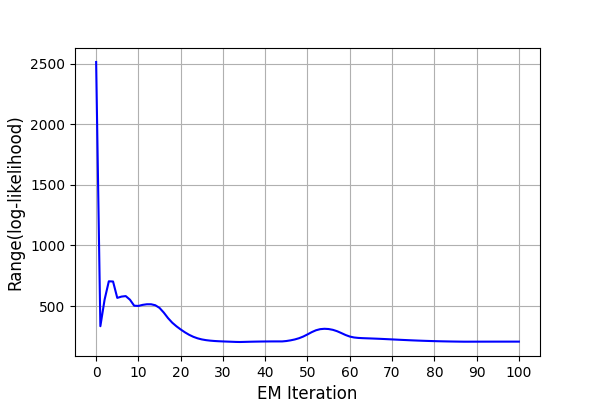
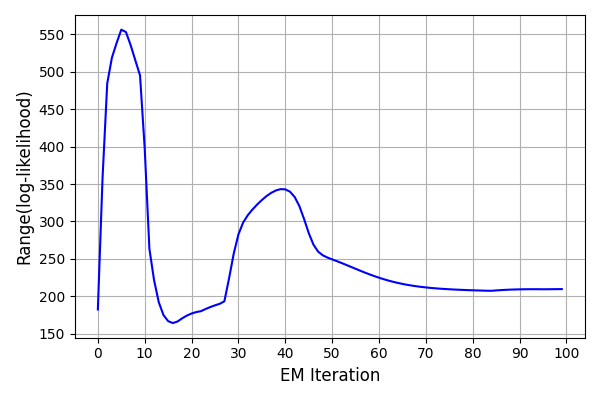
fixed q4 plots

diff --git a/Q4b.py b/Q4b.py
@@ -76,35 +76,55 @@ if __name__ == '__main__':
             # Run the M-step of the algorithm
             A, Q, C, R = maximisation(X, Y, V, Vj)
 
+    # Remove the log-likelihood corresponding to the initial random parameters 
+    all_log_likelihoods = all_log_likelihoods[:, 1:]
+    first_50_log_ls = all_log_likelihoods[:, :50]
+    iter_50_log_ls = all_log_likelihoods[:, 50]
+
     # Plot the log-likelihoods
     fig, axs = plt.subplots(1, 1, figsize=(6, 4))
-    for log_likelihoods in all_log_likelihoods[:51]:
-        axs.plot(log_likelihoods/1000)
-    axs.set_xticks(np.arange(0, n_iterations+1, 10))
-    mn, mx = all_log_likelihoods.min(), all_log_likelihoods.max()
-    axs.set_yticks(np.arange(np.floor(mn/1000), np.ceil(mx/1000)+1, 3))
+    for i, log_likelihoods in enumerate(first_50_log_ls, 1):
+        axs.plot(range(1, 51), log_likelihoods/1000, color=f'C{i}')
+    axs.set_xticks(range(10, 51, 10)) 
+    axs.set_ylim(first_50_log_ls.min()/1000-0.1, first_50_log_ls.max()/1000+0.1)
     axs.set_xlabel('EM Iteration', size=12)
-    axs.set_ylabel(r'Log-likelihood $\times 10^{-4}$', size=12)
+    axs.set_ylabel(r'Log-likelihood $\times 10^{-3}$', size=12)
     axs.grid()
+    fig.tight_layout()
     plt.savefig(f'assets/kalman/em-50.png')
     plt.close(fig)
 
+    # Plot the final log-likelihood in each run
+    fig, axs = plt.subplots(1, 1, figsize=(6, 4))
+    axs.bar(range(1, n_runs+1), iter_50_log_ls/1000, color='blue')
+    axs.set_ylim(iter_50_log_ls.min()/1000-0.01, iter_50_log_ls.max()/1000+0.01)
+    axs.set_xlabel('Run', size=12)
+    axs.set_ylabel(r'Log-likelihood $\times 10^{-3}$', size=12)
+    axs.grid()
+    fig.tight_layout()
+    plt.savefig(f'assets/kalman/em-bar.png')
+    plt.close(fig)
+
     # Plot the standard deviation of the log-likelihoods
-    print(np.std(all_log_likelihoods[:, 50]))
+    print(np.std(iter_50_log_ls))
     fig, axs = plt.subplots(1, 1, figsize=(6, 4))
     axs.plot(np.std(all_log_likelihoods, axis=0), color='blue')
     axs.set_xticks(np.arange(0, n_iterations+1, 10))
     axs.set_xlabel('EM Iteration', size=12)
     axs.set_ylabel('StdDev(log-likelihood)', size=12)
     axs.grid()
+    fig.tight_layout()
     plt.savefig(f'assets/kalman/em-std.png')
+    plt.close(fig)
 
     # Plot the range of the log-likelihoods
-    print(np.ptp(all_log_likelihoods[:, 50], axis=0))
+    print(np.ptp(iter_50_log_ls, axis=0))
     fig, axs = plt.subplots(1, 1, figsize=(6, 4))
     axs.plot(np.ptp(all_log_likelihoods, axis=0), color='blue')
     axs.set_xticks(np.arange(0, n_iterations+1, 10))
     axs.set_xlabel('EM Iteration', size=12)
     axs.set_ylabel('Range(log-likelihood)', size=12)
     axs.grid()
+    fig.tight_layout()
     plt.savefig(f'assets/kalman/em-range.png')
+    plt.close(fig)
